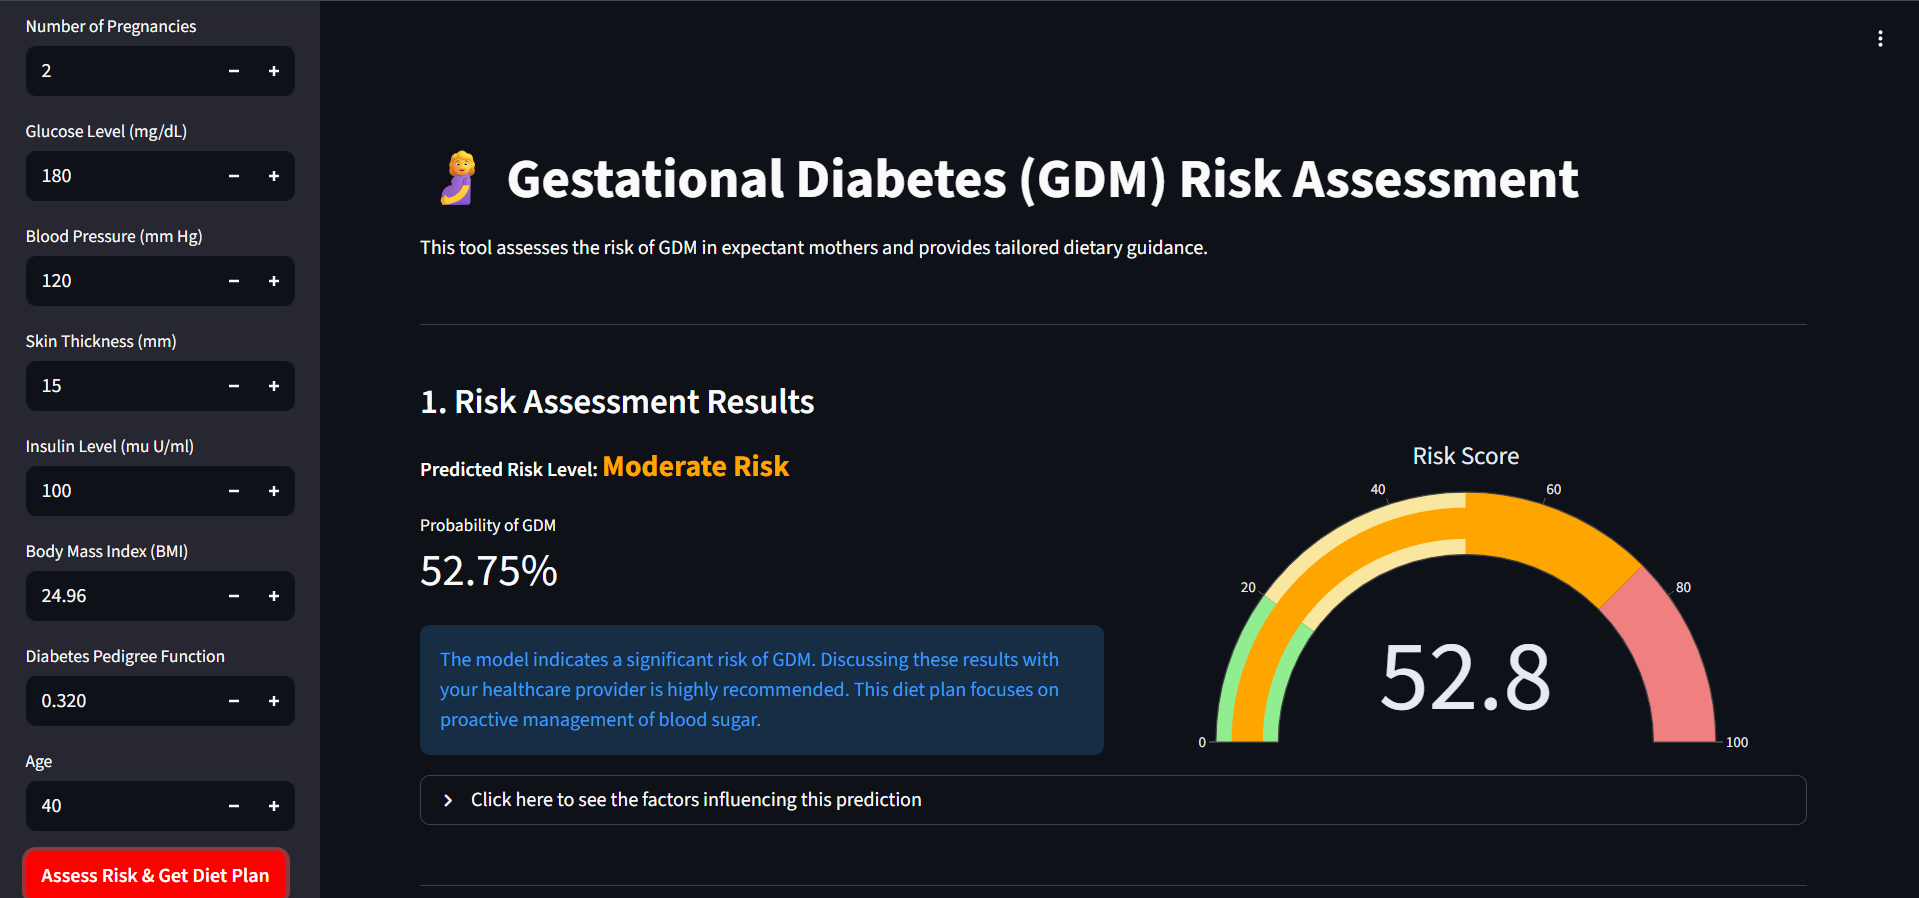
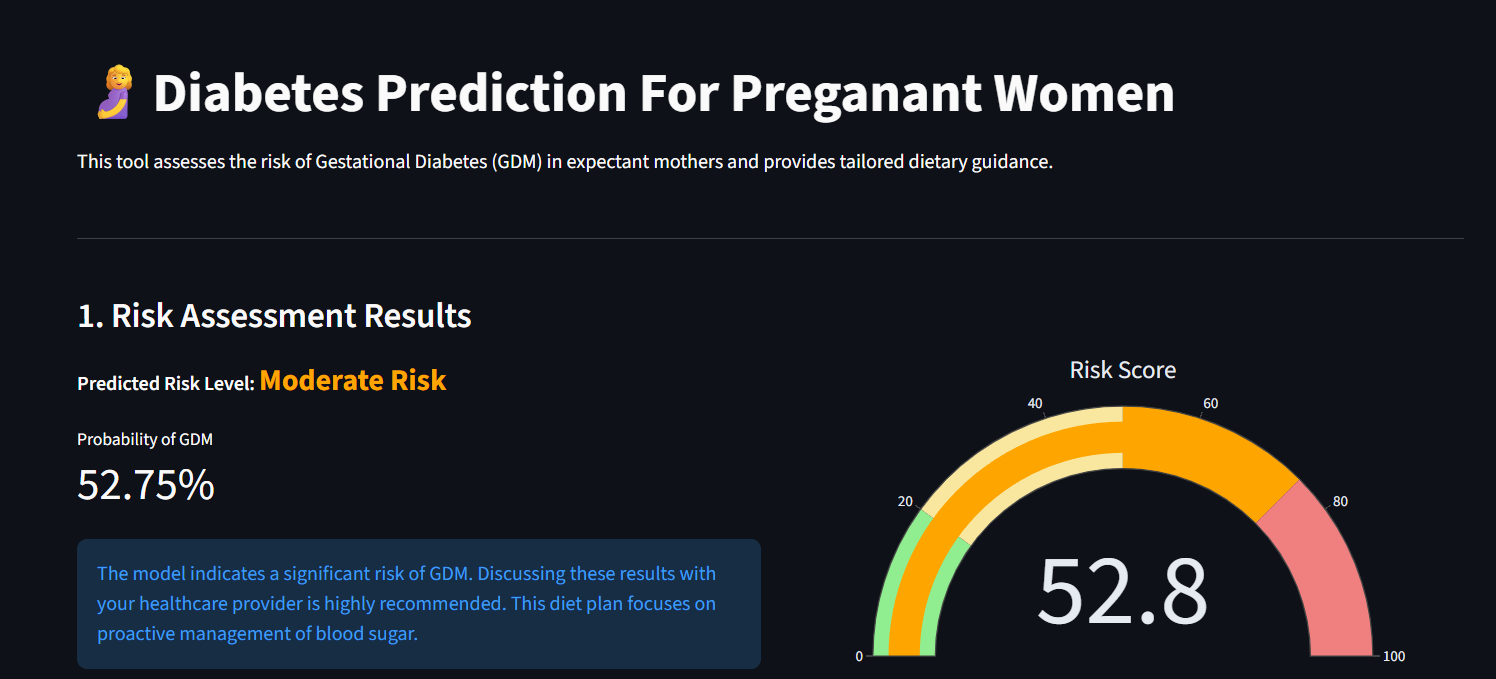
Update app.py logic and refresh main dashboard screenshot

diff --git a/app.py b/app.py
@@ -10,7 +10,7 @@ from sklearn.preprocessing import StandardScaler # Required for joblib
 
 # --- PAGE CONFIGURATION ---
 st.set_page_config(
-    page_title="GDM Risk Assessment",
+    page_title="Diabetes Prediction For Preganant Women",
     page_icon="🤰",
     layout="wide",
     initial_sidebar_state="expanded",
@@ -117,8 +117,8 @@ def st_shap(plot, height=None):
     st.components.v1.html(shap_html, height=height)
 
 # --- UI LAYOUT ---
-st.title('🤰 Gestational Diabetes (GDM) Risk Assessment')
-st.markdown("This tool assesses the risk of GDM in expectant mothers and provides tailored dietary guidance.")
+st.title('🤰Diabetes Prediction For Preganant Women')
+st.markdown("This tool assesses the risk of Gestational Diabetes (GDM) in expectant mothers and provides tailored dietary guidance.")
 st.write('---')
 
 # --- SIDEBAR ---
